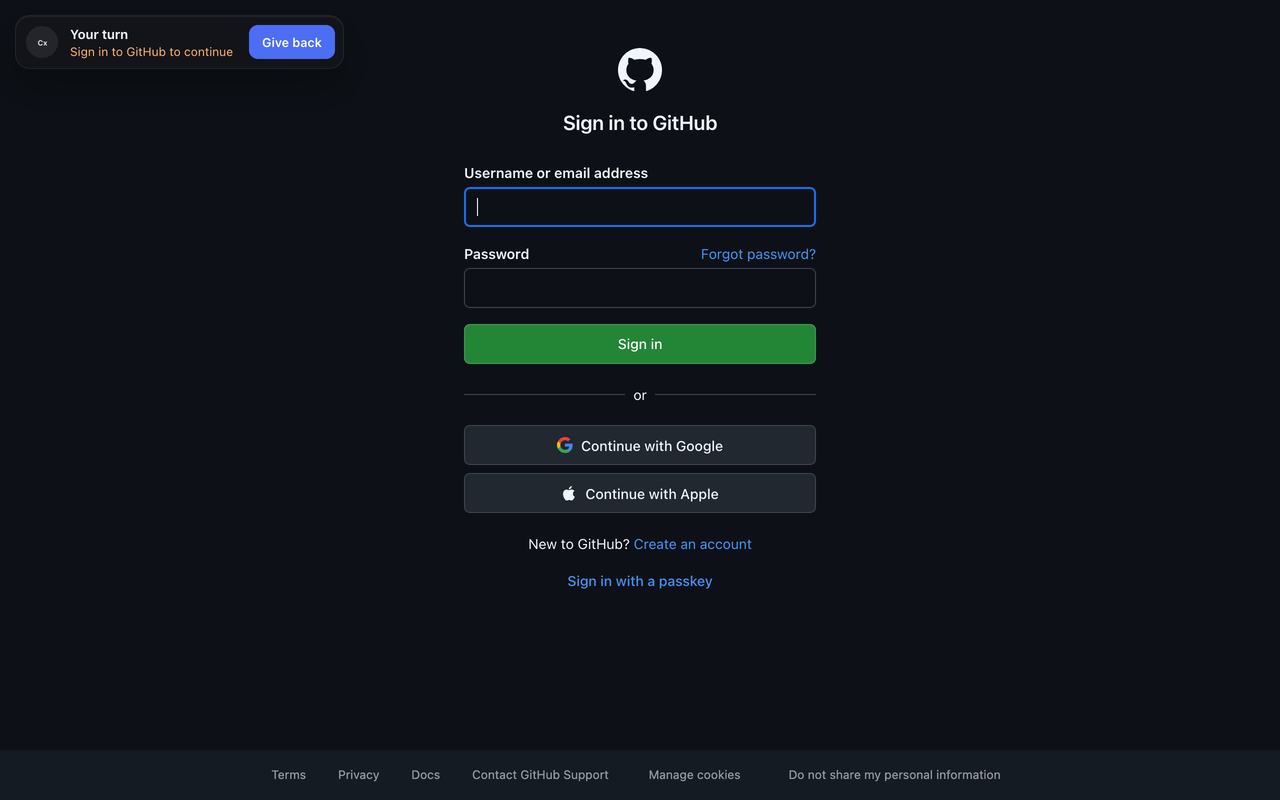
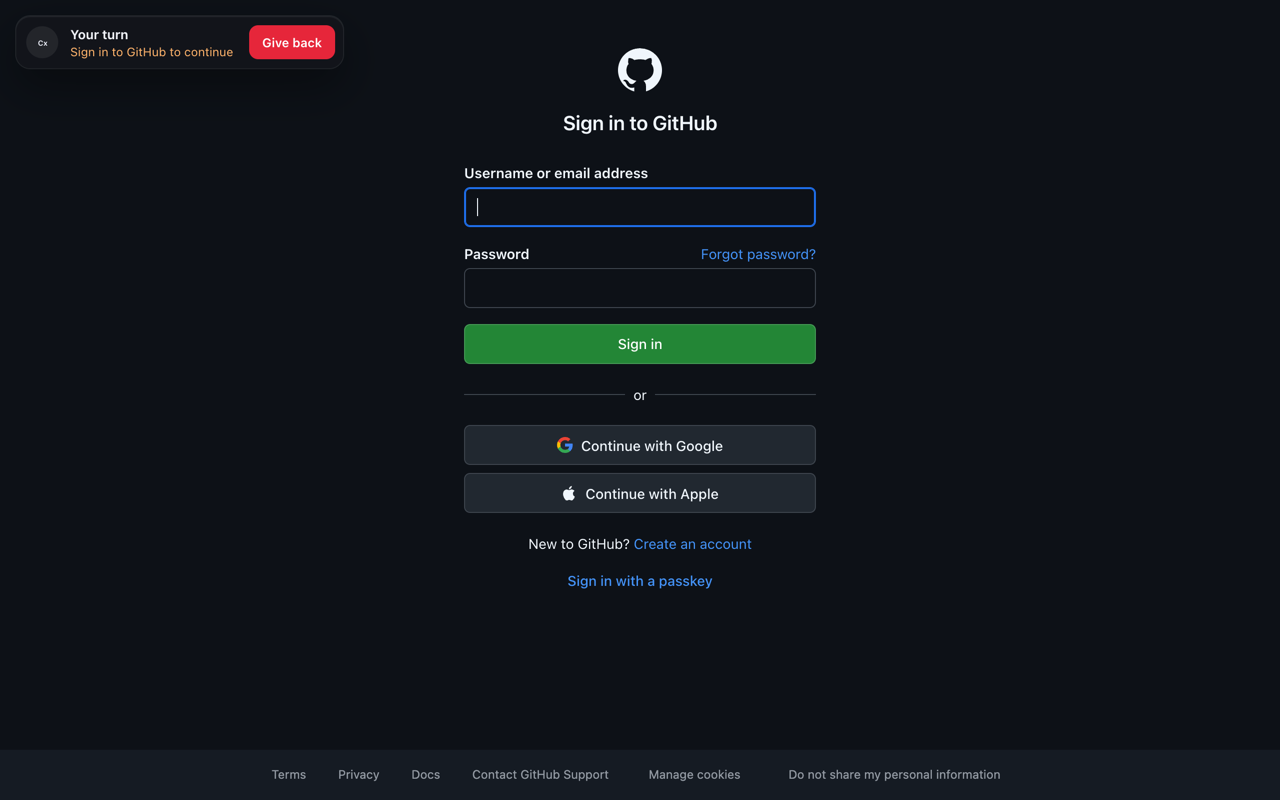
Make the in-page agent glow red
The frame around a page an agent drives, the status line, the busy shimmer, focus
rings and the Give back button use the brand red instead of blue (amber when paused
is unchanged). README screenshots and the demo GIF are regenerated.

Changed region(s): [[0.1875, 0.0312, 0.2812, 0.0938], [0.0625, 0.0312, 0.125, 0.0938]]

diff --git a/extension/src/content/overlay.ts b/extension/src/content/overlay.ts
@@ -1,7 +1,7 @@
 // Overtake in-page overlay. Runs in every frame at document_start.
 //
 // Top frame: closed Shadow DOM in the top layer (popover) with
-//   - blue glowing frame around the controlled page
+//   - red glowing frame around the controlled page
 //   - agent cursor + click ripples, positioned from real CDP input coordinates
 //   - floating dock: status + Take over / Pause / Resume / Stop / Give back
 //   - an input blocker (hit-test layer) while the agent is in control
@@ -98,7 +98,7 @@ import { agentIdentity, AGENT_LOGO } from '../ui/identity.ts';
   * { box-sizing: border-box; font-family: -apple-system, BlinkMacSystemFont, "SF Pro Text", "Inter", system-ui, sans-serif; -webkit-font-smoothing: antialiased; }
   /* The host already covers 100vw × 100vh. A second fixed layer would use the
      page's scrollbar-gutter-adjusted viewport and leave an unpainted edge. */
-  .wrap { position: absolute; inset: 0; pointer-events: none; --blue: 112 140 255; --amber: 245 179 66; --tone: var(--blue);
+  .wrap { position: absolute; inset: 0; pointer-events: none; --red: 255 61 79; --red-text: 255 128 140; --amber: 245 179 66; --tone: var(--red);
     --ease-out: cubic-bezier(0.22, 1, 0.36, 1); --ease-io: cubic-bezier(0.65, 0, 0.35, 1); --fast: 120ms; --base: 180ms; --slow: 280ms; }
   .wrap.paused { --tone: var(--amber); }
 
@@ -156,11 +156,11 @@ import { agentIdentity, AGENT_LOGO } from '../ui/identity.ts';
   .txt { display: flex; flex-direction: column; gap: 2px; min-width: 0; padding-right: 4px; }
   .t1 { font-size: 13px; font-weight: 650; letter-spacing: -.01em; white-space: nowrap; }
   .t2 { font-size: 12px; white-space: nowrap; overflow: hidden; text-overflow: ellipsis; max-width: 300px; color: #9aa1b5; }
-  .agent .t2 { color: rgb(var(--blue)); }
+  .agent .t2 { color: rgb(var(--red-text)); }
   .paused .t2 { color: rgb(var(--amber)); }
   .need .t2 { color: #ffb36b; }
   /* Live activity shimmer: a light band sweeping across the status text. */
-  .busy .t2 { background: linear-gradient(105deg, rgb(var(--blue)) 40%, #fff 50%, rgb(var(--blue)) 60%) 100% 0 / 250% 100% no-repeat;
+  .busy .t2 { background: linear-gradient(105deg, rgb(var(--red-text)) 40%, #fff 50%, rgb(var(--red-text)) 60%) 100% 0 / 250% 100% no-repeat;
     -webkit-background-clip: text; background-clip: text; color: transparent; animation: sweep 1.9s linear infinite; }
   @keyframes sweep { 0% { background-position: 100% 0 } 70%, 100% { background-position: 0% 0 } }
   .swap .txt, .swap .btns { animation: swap var(--base) var(--ease-out); }
@@ -171,11 +171,11 @@ import { agentIdentity, AGENT_LOGO } from '../ui/identity.ts';
     transition: background var(--fast) var(--ease-out), color var(--fast), scale var(--fast) var(--ease-out); }
   button:hover { background: rgb(255 255 255 / .14); }
   button:active { scale: .97; }
-  button:focus-visible { outline: 2px solid rgb(var(--blue)); outline-offset: 2px; }
+  button:focus-visible { outline: 2px solid rgb(var(--red)); outline-offset: 2px; }
   button.primary { background: #f2f4fa; color: #14161c; }
   button.primary:hover { background: #fff; }
-  button.accent { background: rgb(76 110 245); color: #fff; }
-  button.accent:hover { background: rgb(92 124 250); }
+  button.accent { background: rgb(230 38 58); color: #fff; }
+  button.accent:hover { background: rgb(245 56 75); }
   button.icon { width: 34px; padding: 0; justify-content: center; }
   button.icon svg { width: 14px; height: 14px; }
   button.stop:hover { background: rgb(250 82 82 / .18); color: #ff8f8f; }

diff --git a/extension/src/content/agent-field.ts b/extension/src/content/agent-field.ts
@@ -146,7 +146,7 @@ export class AgentField {
     this.#wake();
   }
 
-  /** Light page background: dots switch from near-white to blue to stay legible. */
+  /** Light page background: dots switch from near-white to grey to stay legible. */
   setSurface(light: boolean) {
     if (this.#light === light) return;
     this.#light = light;

diff --git a/docs/architecture.md b/docs/architecture.md
@@ -133,7 +133,7 @@ Layers inside the overlay's closed shadow root (top layer):
 
 | Layer | Role | Pointer events |
 |---|---|---|
-| `.edge` | atmospheric edge light (blue; amber when paused) | none |
+| `.edge` | atmospheric edge light (red; amber when paused) | none |
 | `.blocker` | **the input shield**, the only layer that blocks input | auto while the agent drives |
 | `canvas.field` | agent field: trail-revealed dot grid, click ripples, cursor glow (`agent-field.ts`) | none |
 | `.cursor` | arrow + action label, positioned by the field's spring each frame | none |
